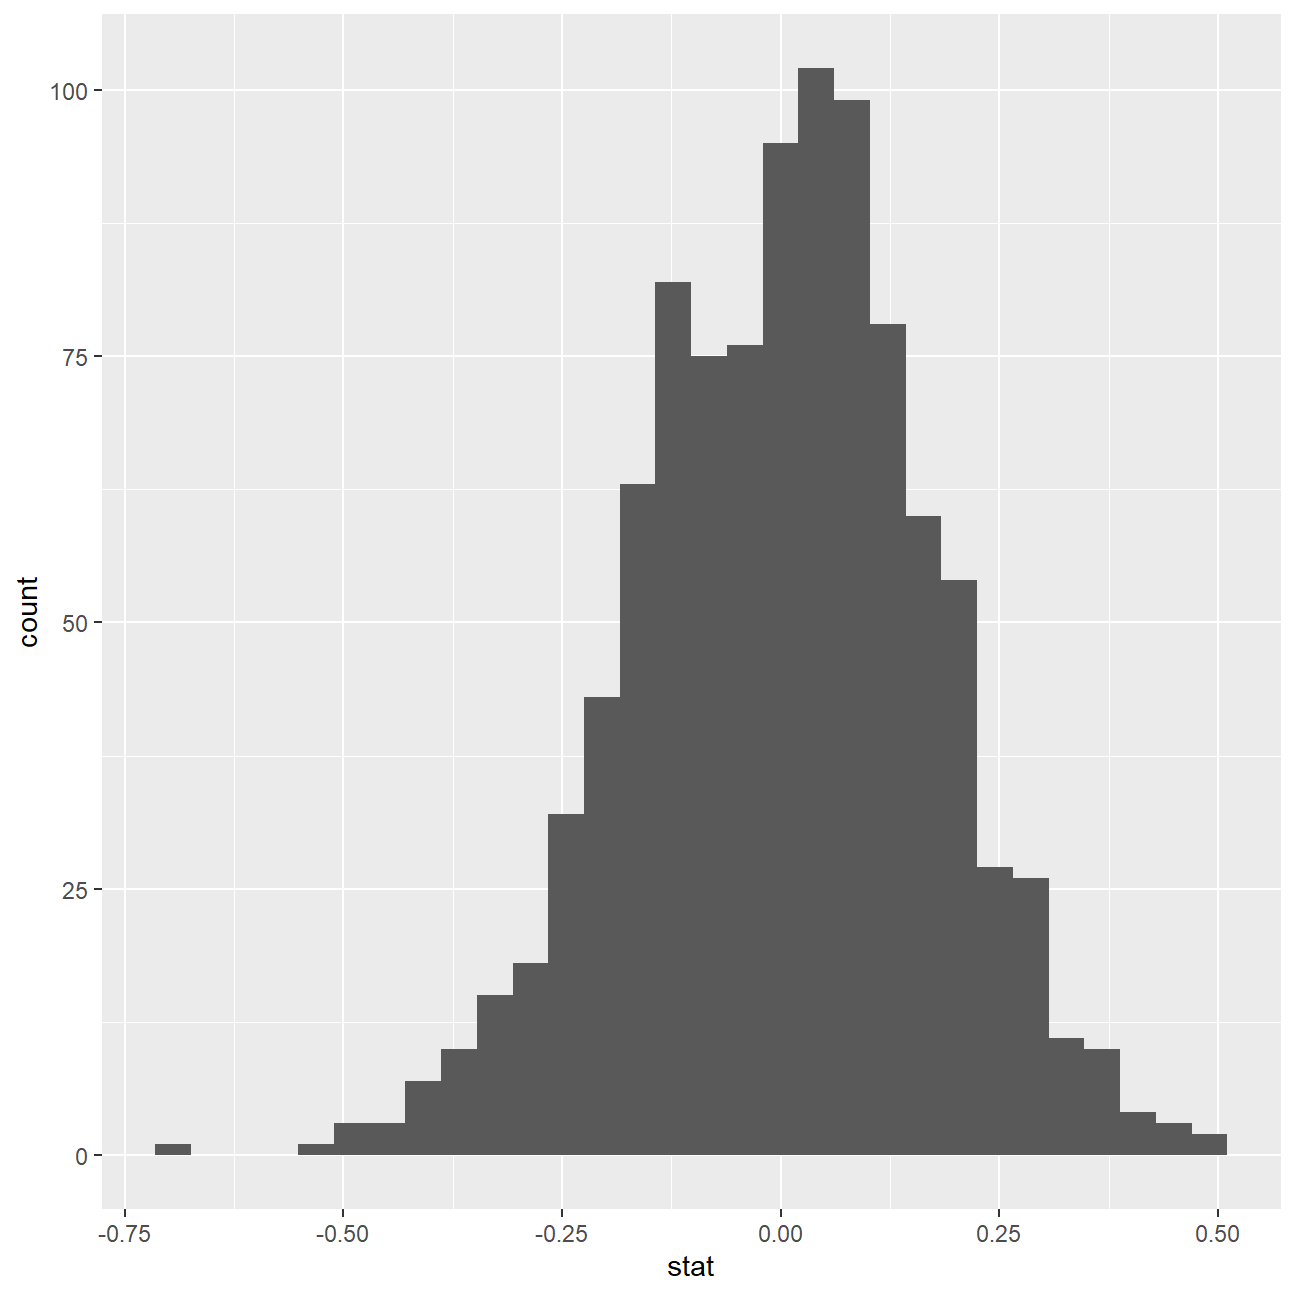
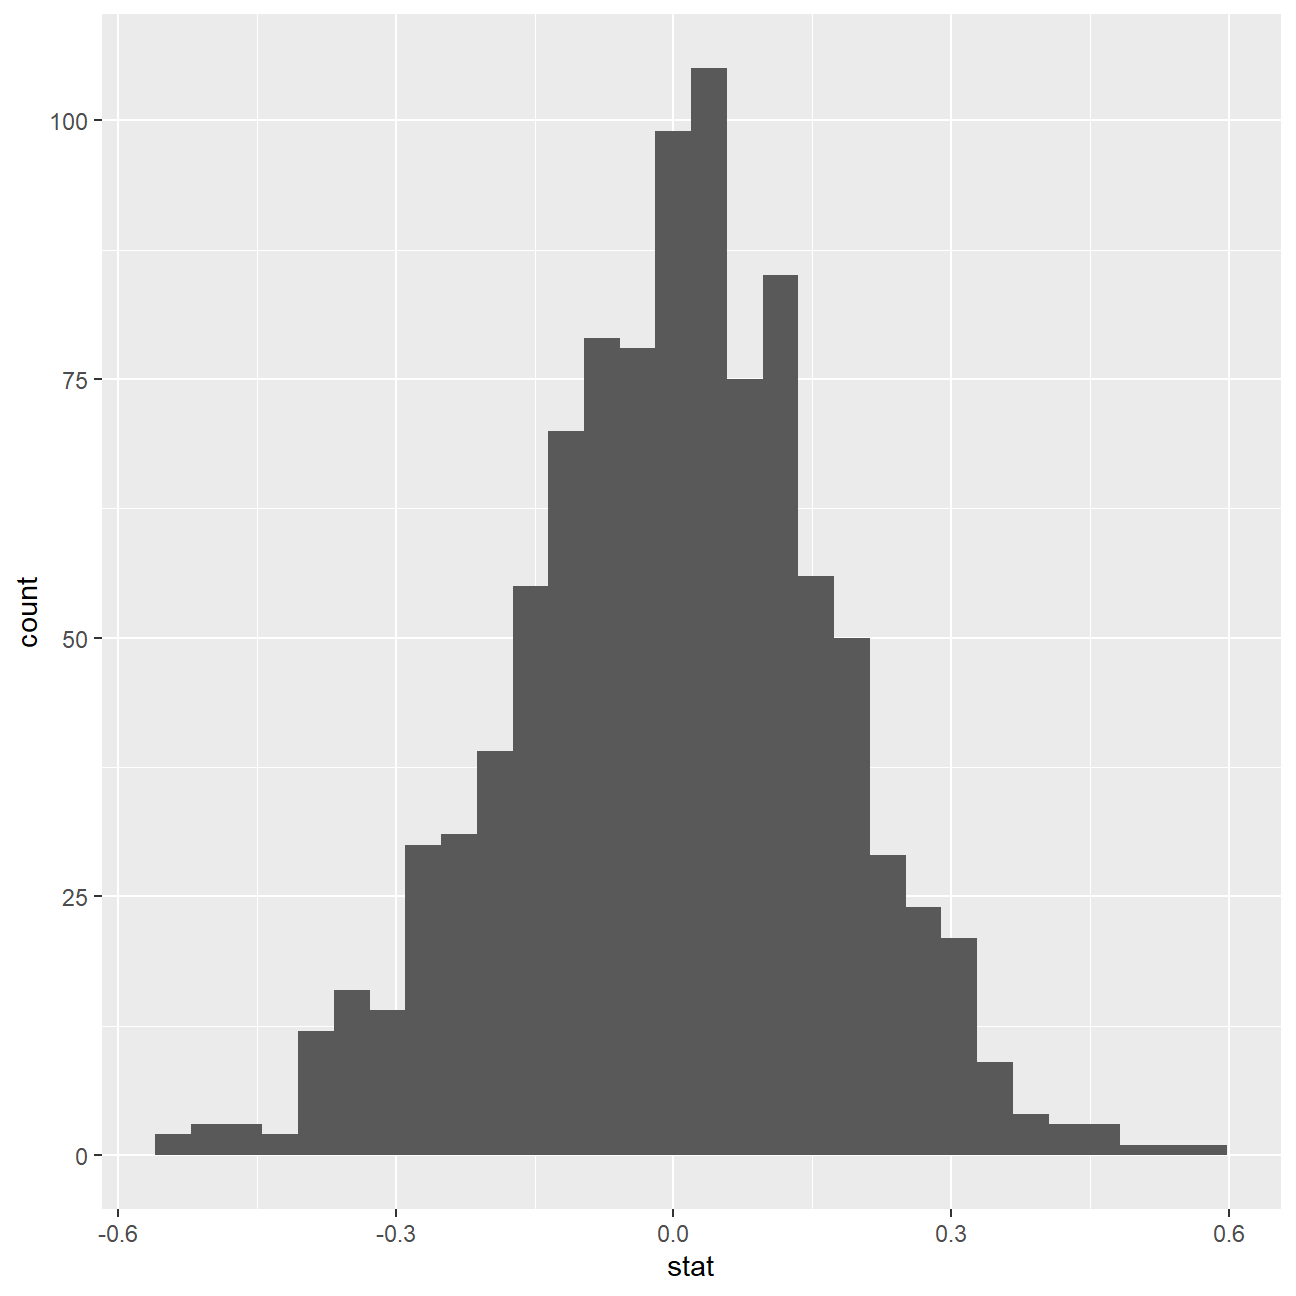
e

diff --git a/content/projects/project3/index.html b/content/projects/project3/index.html
@@ -1,14 +1,14 @@
 ---
 title: "IMDB Ratings: Steven Spielberg vs Tim Burton"
 date: '2020-10-11'
-description: STEVEN SPIELBERG VS TIM BURTON
-image: IMDB.jpg
-draft: no
-keywords: ''
-slug: index
-categories:
-- ""
-- ""
+output:
+  html_document:
+    theme: flatly
+    highlight: zenburn
+    number_sections: yes
+    toc: yes
+    toc_float: yes
+    code_folding: show
 ---
 
 
@@ -354,16 +354,16 @@ null_dist</code></pre>
 <pre><code>## # A tibble: 1,000 x 2
 ##    replicate    stat
 ##        &lt;int&gt;   &lt;dbl&gt;
-##  1         1 -0.184 
-##  2         2 -0.0566
-##  3         3  0.0239
-##  4         4 -0.116 
-##  5         5  0.224 
-##  6         6 -0.0514
-##  7         7  0.154 
-##  8         8 -0.0722
-##  9         9  0.0889
-## 10        10  0.185 
+##  1         1  0.289 
+##  2         2 -0.270 
+##  3         3 -0.119 
+##  4         4  0.117 
+##  5         5  0.463 
+##  6         6 -0.0982
+##  7         7  0.0291
+##  8         8  0.221 
+##  9         9  0.0369
+## 10        10  0.0967
 ## # ... with 990 more rows</code></pre>
 <pre class="r"><code>ggplot(data = null_dist, aes(x = stat)) +
   geom_histogram()</code></pre>
